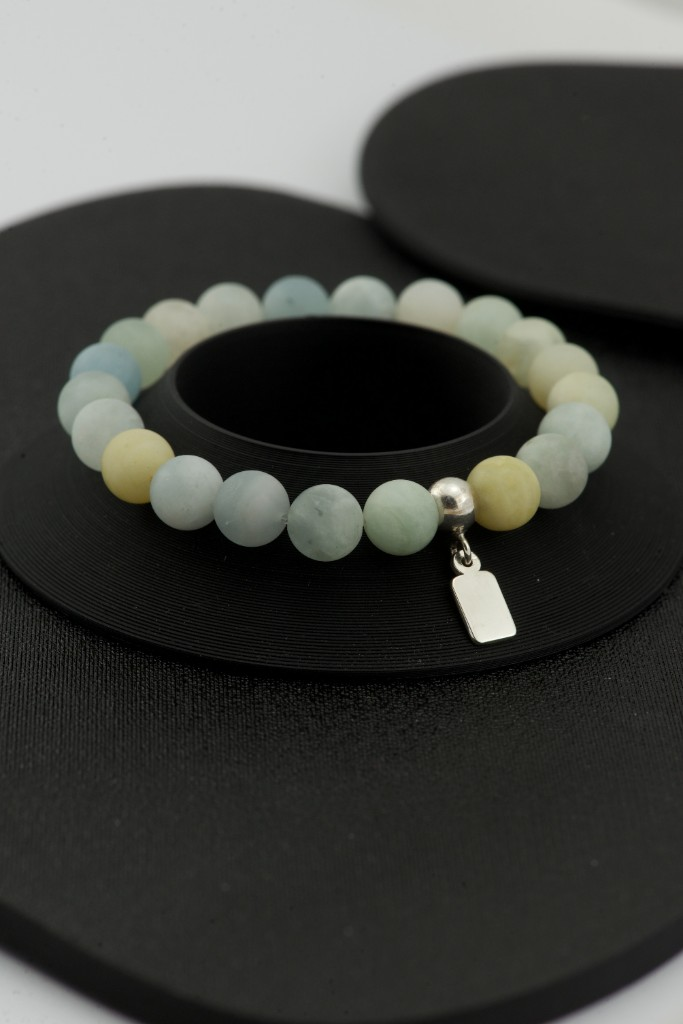
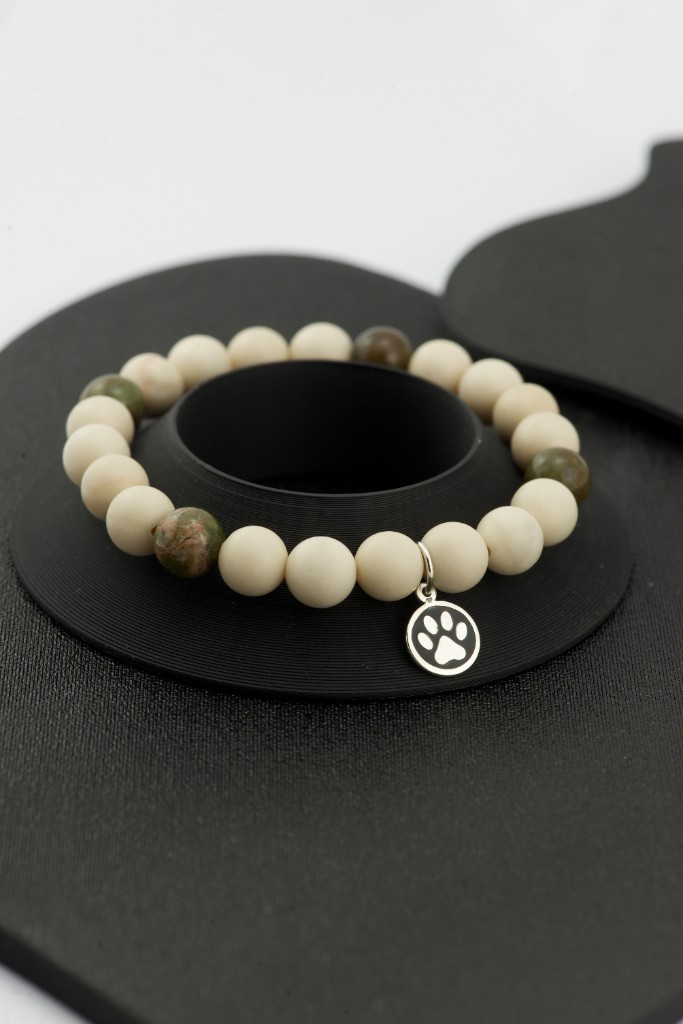
Podmień zdjęcia produktu 28
Aktualizacja zdjęć (product-28-01..03) + cache-bust main/products import.

Made-with: Cursor

diff --git a/js/main.js b/js/main.js
@@ -1,4 +1,4 @@
-import { PRODUCTS } from "./products.js?v=20260426-perly1";
+import { PRODUCTS } from "./products.js?v=20260426-opalimg1";
 import { renderProductGrid } from "./render.js";
 import { initCatalog } from "./filters.js";
 import { initScrollReveal } from "./animations.js";

diff --git a/catalog.html b/catalog.html
@@ -127,7 +127,7 @@
       </div>
     </footer>
 
-    <script type="module" src="./js/main.js?v=20260426-perly1"></script>
+    <script type="module" src="./js/main.js?v=20260426-opalimg1"></script>
   </body>
 </html>
 

diff --git a/index.html b/index.html
@@ -186,7 +186,7 @@
       </div>
     </footer>
 
-    <script type="module" src="./js/main.js?v=20260426-perly1"></script>
+    <script type="module" src="./js/main.js?v=20260426-opalimg1"></script>
   </body>
 </html>
 
